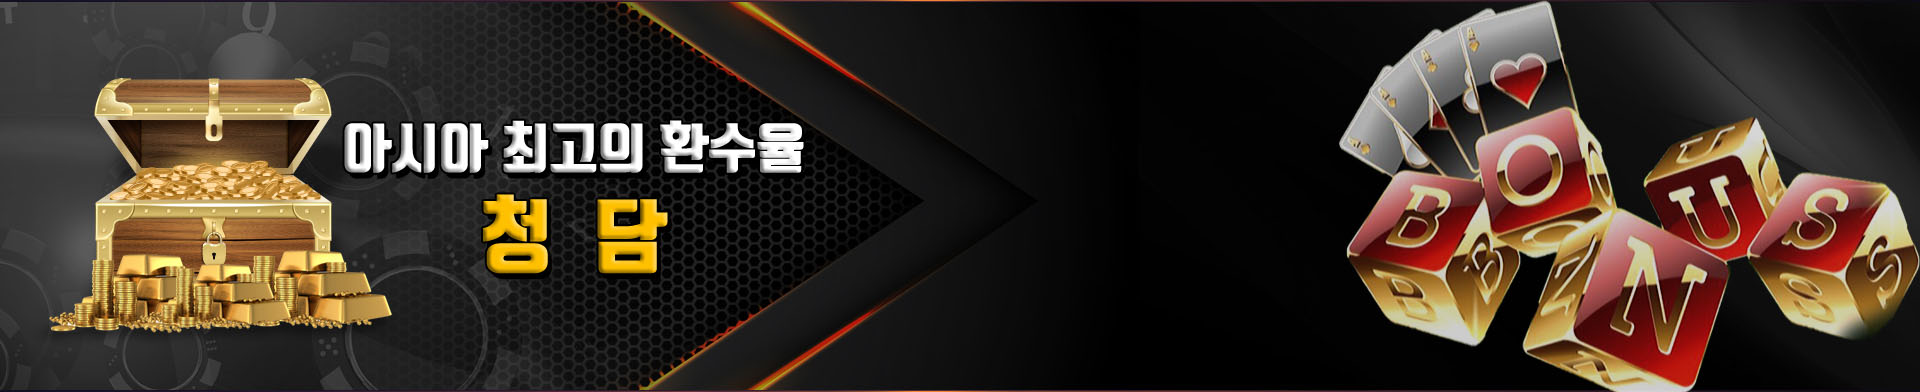
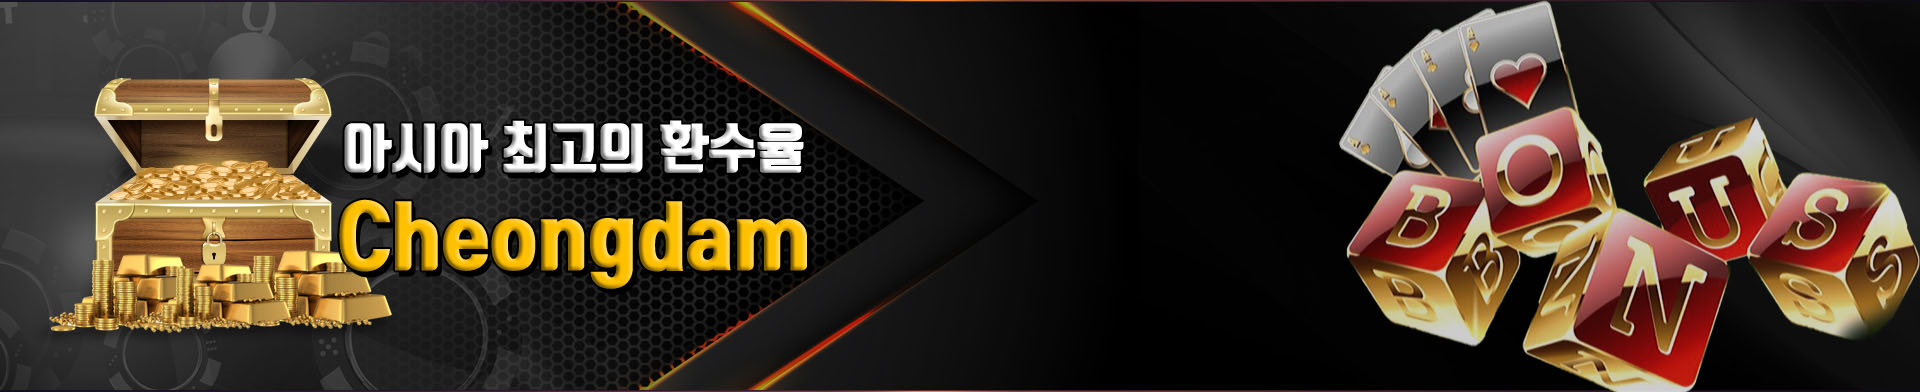
update cheongdam design

Changed region(s): [[0.1562, 0.4898, 0.4375, 0.7347]]

diff --git a/resources/views/frontend/cheongdam/layouts/app.blade.php b/resources/views/frontend/cheongdam/layouts/app.blade.php
@@ -394,7 +394,7 @@
           </div>
           <div id="footer">
             <img src="/frontend/jungle/images/partner.png" /><br /><br />Copyright ⓒ
-            2022~2023 청담  All rights reserved.
+            2022~2023 Cheongdam  All rights reserved.
           </div>
          </div>
          <div>
